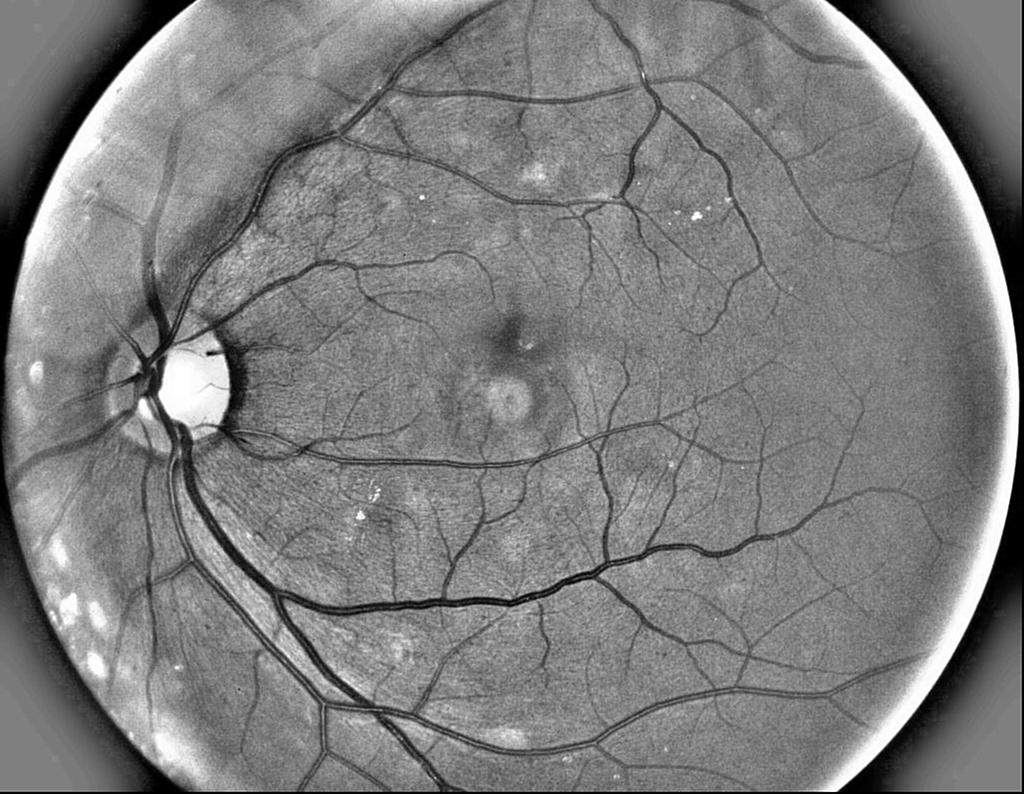
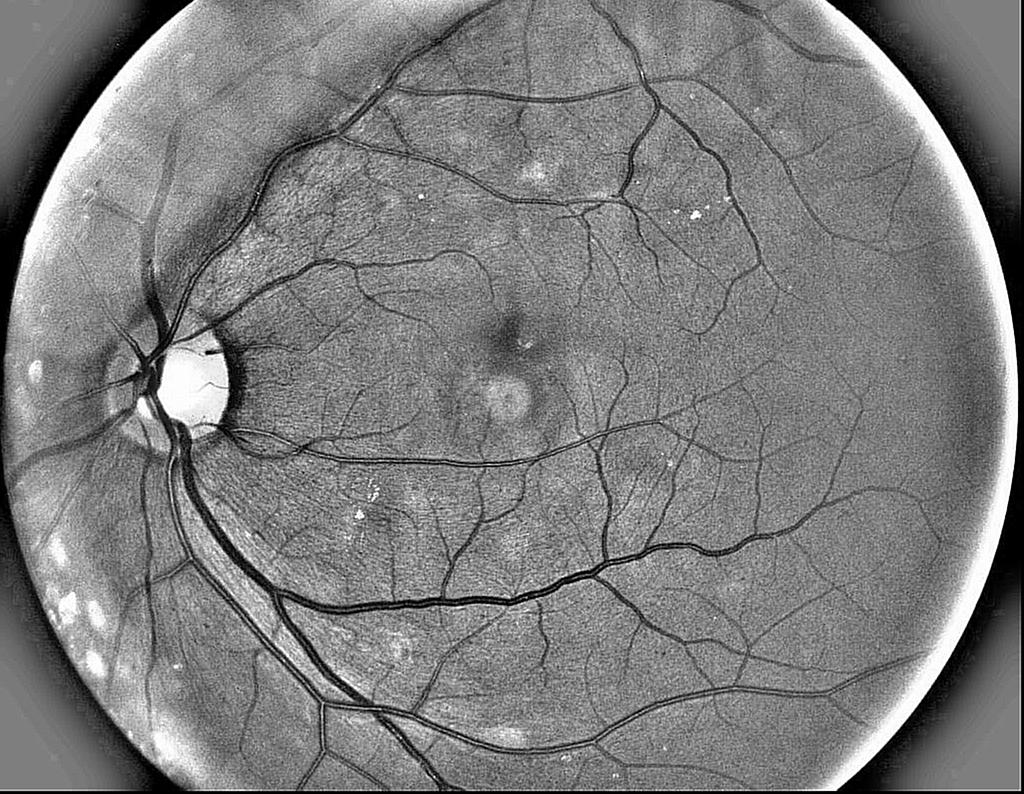
experiment with sharpen then gaussian then sharpen

diff --git a/noise-removal.py b/noise-removal.py
@@ -24,6 +24,8 @@ output_dir = 'images/filtered/'
 
 # Averaging Filter
 a_filter = [[1.0 / 9.0] * 3] * 3
+# Larger Average Filter
+a_filter_large = [[1.0 / 49] * 7] * 7
 # Gaussian Filter
 g_filter = [
     [1.0 / 16.0, 2.0 / 16.0, 1.0 / 16.0],
@@ -53,25 +55,6 @@ es_filter = [
     [-2.0/9, -2.0/9, -2.0/9]
 ]
 
-def filter_2d(image_file, filter_2d):
-    image = Image.open(grayscale_dir + image_file)
-    output = Image.new(mode='L', size=(image.size[0], image.size[1]))
-    image_pixels = image.load()
-    output_pixels = output.load()
-
-    for i in range(image.size[0]):
-        for j in range(image.size[1]):
-            filter_sum = 0.0
-            for k in range(len(filter_2d)):
-                for l in range(len(filter_2d[0])):
-                    if i + k >= 0 and i + k < image.size[0] and j + l >= 0 and j + l < image.size[1]:
-                        filter_sum += image_pixels[i + k, j + l] * filter_2d[k][l]
-            output_pixels[i,j] = (int) (filter_sum)
-    output.save(output_dir + image_file)
-    
-    image.close()
-    output.close()
-
 def filter_2d_obj(image_obj, filter_2d):
     image_pixels = image.load()
     output = Image.new(mode='L', size=(image.size[0], image.size[1]))
@@ -87,15 +70,15 @@ def filter_2d_obj(image_obj, filter_2d):
             output_pixels[i,j] = (int) (filter_sum)
     return output
 
+
 start_time = time.time()
 print(f'Fetching from {image_dir}')
 for image_file in os.listdir(image_dir):
     image = Image.open(image_dir + image_file).convert('L')
     image.save(grayscale_dir + image_file)
 
-    # Running it through a gaussian filter first
+    image = filter_2d_obj(image, es_filter)
     image = filter_2d_obj(image, g_filter)
-    # Then sharpen
     image = filter_2d_obj(image, es_filter)
 
     image.save(output_dir + image_file)
